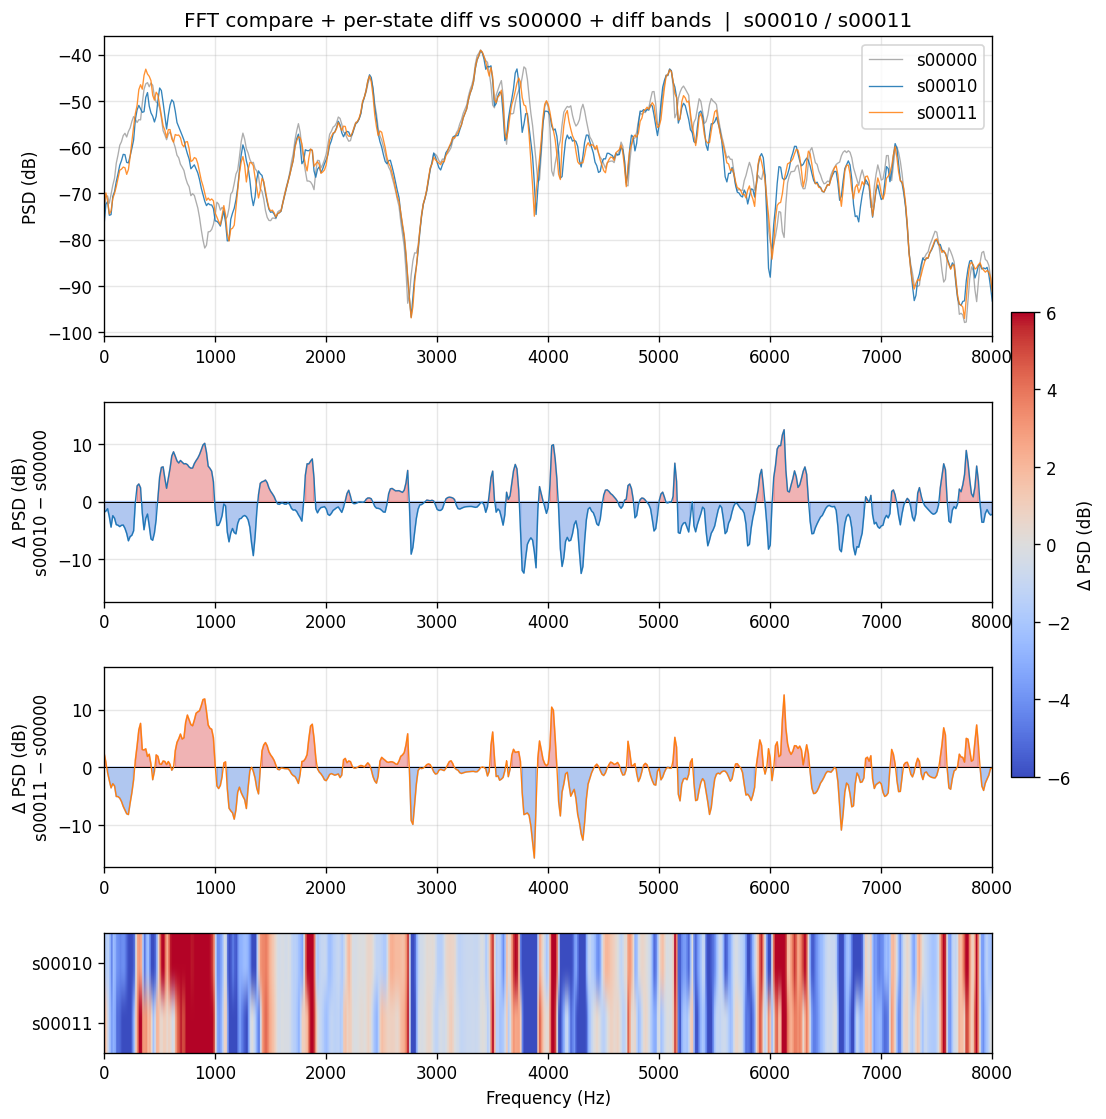
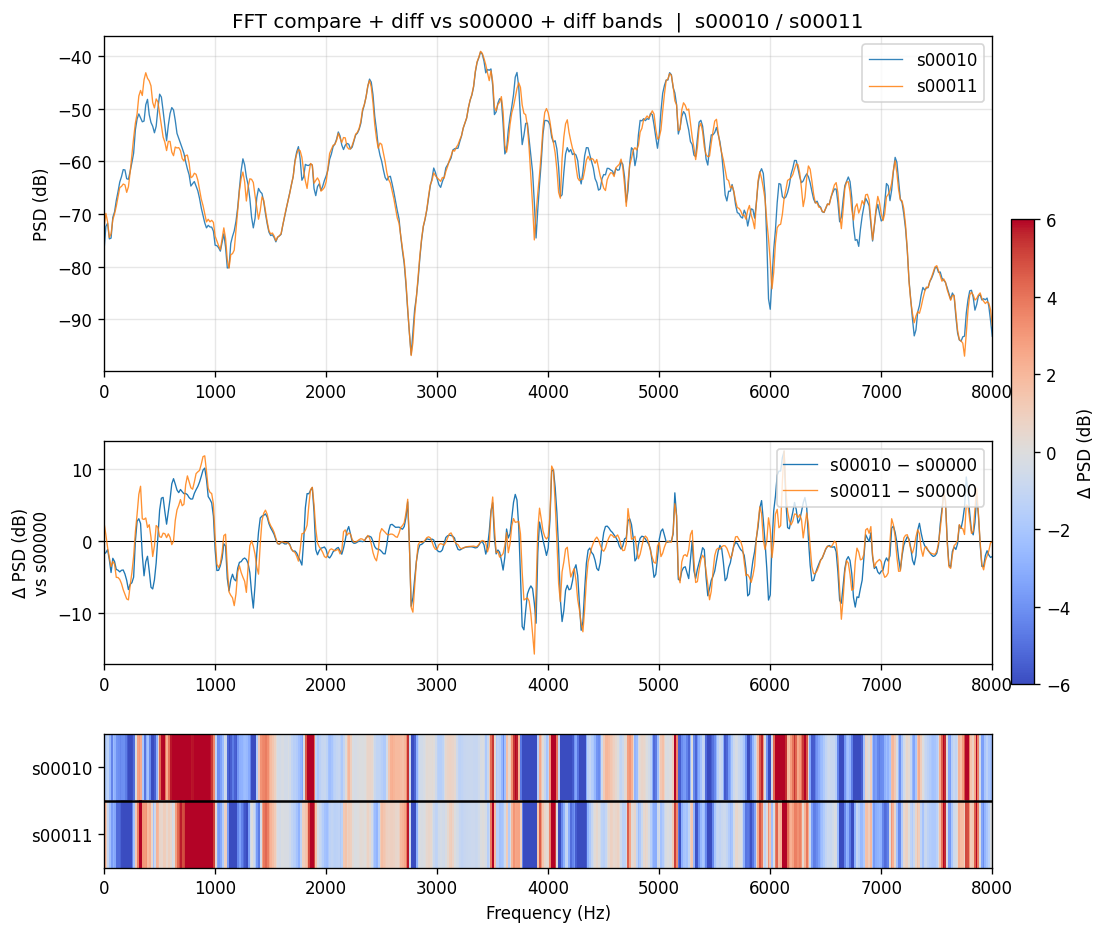
docs(figures): pair 図のレイアウト修正 — FFT 2本 / diff 重ね描き / 帯に区切り線
- 段1: ベースライン線を削除し s00010/s00011 の 2 本のみ
- 段2: 2 つの diff 線 (= 学習に用いる noise_diff 特徴量) を同一パネルに重ね描き
- 段3: 帯カラーチャート 2 行の境界に横線を追加、interpolation=nearest で
  各帯の y 方向一様性を保証

diff --git a/pc/gen_fftdiff_band_pair.py b/pc/gen_fftdiff_band_pair.py
@@ -1,15 +1,15 @@
-"""2 状態 vs 共通ベースラインの FFT 比較 + 各 diff + diff 帯カラーチャート並置。
+"""2 状態 vs 共通ベースラインの FFT 比較 + diff 重ね描き + diff 帯カラーチャート並置。
 
 gen_fftdiff_band.py (1 ペア版) の拡張。2 つの state を共通ベースライン
 (通常 s00000 全閉) と比較し、「どの帯域がどちらの state で動くか」を
-帯カラーチャートの並置で見せる資料図。
+帯カラーチャートの並置で見せる資料図。中段の 2 本の diff 線が
+学習に用いる noise_diff 特徴量そのものに対応する。
 
-レイアウト (縦 4 段、x 軸=周波数 0–8 kHz 線形で共有):
-  段1: ベースライン + 両 state の平均 FFT (Welch PSD, dB) を重ね描き
-  段2: 差分線 (stateA − baseline) [dB]、0 基準、正負塗り
-  段3: 差分線 (stateB − baseline) [dB]、同上
-  段4: 両 diff の帯カラーチャートを 2 行で並置 (coolwarm, ±6 dB 共有)
-       → 行同士で色を直接比較できる
+レイアウト (縦 3 段、x 軸=周波数 0–8 kHz 線形で共有):
+  段1: 両 state の平均 FFT (Welch PSD, dB) を重ね描き (2 本)
+  段2: 差分線 (stateA − baseline) と (stateB − baseline) を同一パネルに重ね描き
+  段3: 両 diff の帯カラーチャートを 2 行で並置 (coolwarm, ±6 dB 共有)。
+       各帯は 1 次元 (y 方向は一様)、間に区切りの横線を引く
 
 使い方:
   uv run --extra training python gen_fftdiff_band_pair.py \
@@ -67,48 +67,44 @@ def main(argv=None) -> int:
     matplotlib.use("Agg")
     import matplotlib.pyplot as plt
 
-    fig = plt.figure(figsize=(10, 11))
-    gs = fig.add_gridspec(4, 1, height_ratios=[3, 2, 2, 1.2], hspace=0.32)
+    fig = plt.figure(figsize=(10, 9))
+    gs = fig.add_gridspec(3, 1, height_ratios=[3, 2, 1.2], hspace=0.30)
 
-    # 段1: FFT 重ね描き (ベースラインは薄いグレーで参照用)
+    # 段1: 両 state の FFT 重ね描き (2 本)
     ax0 = fig.add_subplot(gs[0])
-    ax0.plot(freqs, psd_base, lw=0.8, color="#999999", label=args.label_base, alpha=0.8)
     ax0.plot(freqs, psd_a, lw=0.8, color="#1f77b4", label=args.label_a, alpha=0.9)
     ax0.plot(freqs, psd_b, lw=0.8, color="#ff7f0e", label=args.label_b, alpha=0.85)
     ax0.set_ylabel("PSD (dB)")
-    ax0.set_title(f"FFT compare + per-state diff vs {args.label_base} + diff bands  |  "
+    ax0.set_title(f"FFT compare + diff vs {args.label_base} + diff bands  |  "
                   f"{args.label_a} / {args.label_b}")
     ax0.legend(loc="upper right")
     ax0.grid(True, alpha=0.3)
     ax0.set_xlim(0, FMAX_HZ)
 
-    # 段2/3: 各 state の差分線 (y 軸レンジは両者共通にして比較可能にする)
-    ylim = float(np.max(np.abs(np.concatenate([diff_a, diff_b])))) * 1.1
-    diff_panels = [
-        (fig.add_subplot(gs[1], sharex=ax0), diff_a, args.label_a, "#1f77b4"),
-        (fig.add_subplot(gs[2], sharex=ax0), diff_b, args.label_b, "#ff7f0e"),
-    ]
-    for ax, diff, label, color in diff_panels:
-        ax.axhline(0, color="k", lw=0.6)
-        ax.plot(freqs, diff, lw=0.8, color=color)
-        ax.fill_between(freqs, diff, 0, where=diff >= 0, color="#d62728", alpha=0.35)
-        ax.fill_between(freqs, diff, 0, where=diff < 0, color="#1f5fd6", alpha=0.35)
-        ax.set_ylabel(f"Δ PSD (dB)\n{label} − {args.label_base}")
-        ax.set_ylim(-ylim, ylim)
-        ax.grid(True, alpha=0.3)
-        ax.set_xlim(0, FMAX_HZ)
+    # 段2: 2 本の diff 線を同一パネルに重ね描き (= noise_diff 特徴量)
+    ax1 = fig.add_subplot(gs[1], sharex=ax0)
+    ax1.axhline(0, color="k", lw=0.6)
+    ax1.plot(freqs, diff_a, lw=0.8, color="#1f77b4",
+             label=f"{args.label_a} − {args.label_base}")
+    ax1.plot(freqs, diff_b, lw=0.8, color="#ff7f0e", alpha=0.85,
+             label=f"{args.label_b} − {args.label_base}")
+    ax1.set_ylabel(f"Δ PSD (dB)\nvs {args.label_base}")
+    ax1.legend(loc="upper right")
+    ax1.grid(True, alpha=0.3)
+    ax1.set_xlim(0, FMAX_HZ)
 
-    # 段4: 両 diff の帯カラーチャートを 2 行並置
-    ax3 = fig.add_subplot(gs[3], sharex=ax0)
+    # 段3: 両 diff の帯カラーチャートを 2 行並置。
+    # interpolation="nearest" で行内 (y 方向) を完全一様に保ち、境界に横線を引く
+    ax2 = fig.add_subplot(gs[2], sharex=ax0)
     bands = np.vstack([diff_a, diff_b])
-    im = ax3.imshow(bands, aspect="auto", cmap=DIVERGE_CMAP,
+    im = ax2.imshow(bands, aspect="auto", cmap=DIVERGE_CMAP,
                     vmin=-DIVERGE_CLIM, vmax=DIVERGE_CLIM,
-                    extent=[0, FMAX_HZ, 0, 2])
-    ax3.set_yticks([0.5, 1.5])
-    ax3.set_yticklabels([args.label_b, args.label_a])  # imshow は上が先頭行
-    ax3.set_xlabel("Frequency (Hz)")
-    cbar = fig.colorbar(im, ax=[ax0, *(p[0] for p in diff_panels), ax3],
-                        fraction=0.025, pad=0.02)
+                    extent=[0, FMAX_HZ, 0, 2], interpolation="nearest")
+    ax2.axhline(1, color="k", lw=1.5)
+    ax2.set_yticks([0.5, 1.5])
+    ax2.set_yticklabels([args.label_b, args.label_a])  # imshow は上が先頭行
+    ax2.set_xlabel("Frequency (Hz)")
+    cbar = fig.colorbar(im, ax=[ax0, ax1, ax2], fraction=0.025, pad=0.02)
     cbar.set_label("Δ PSD (dB)")
 
     args.out.parent.mkdir(parents=True, exist_ok=True)
